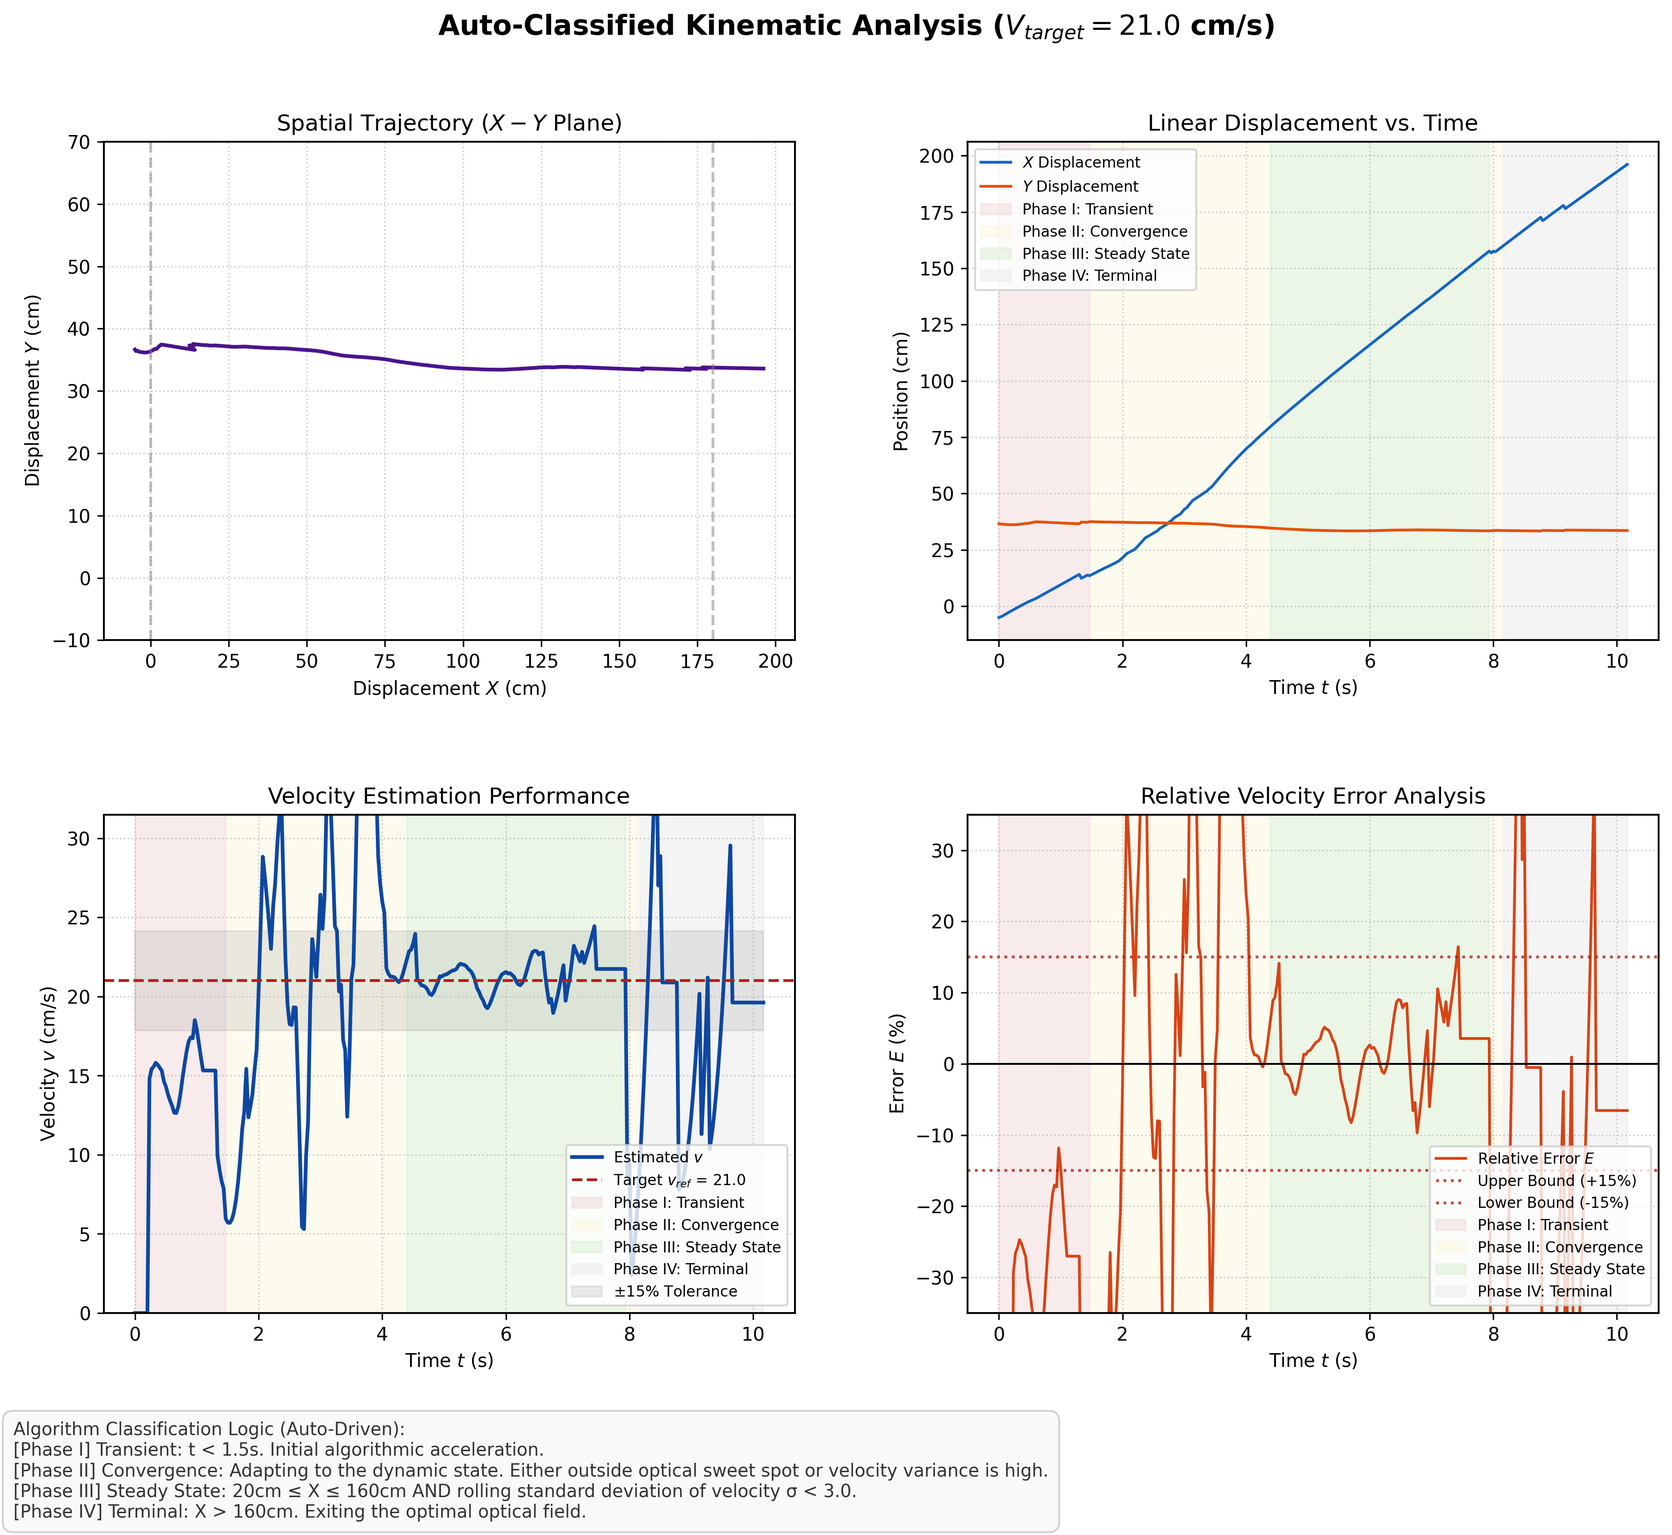
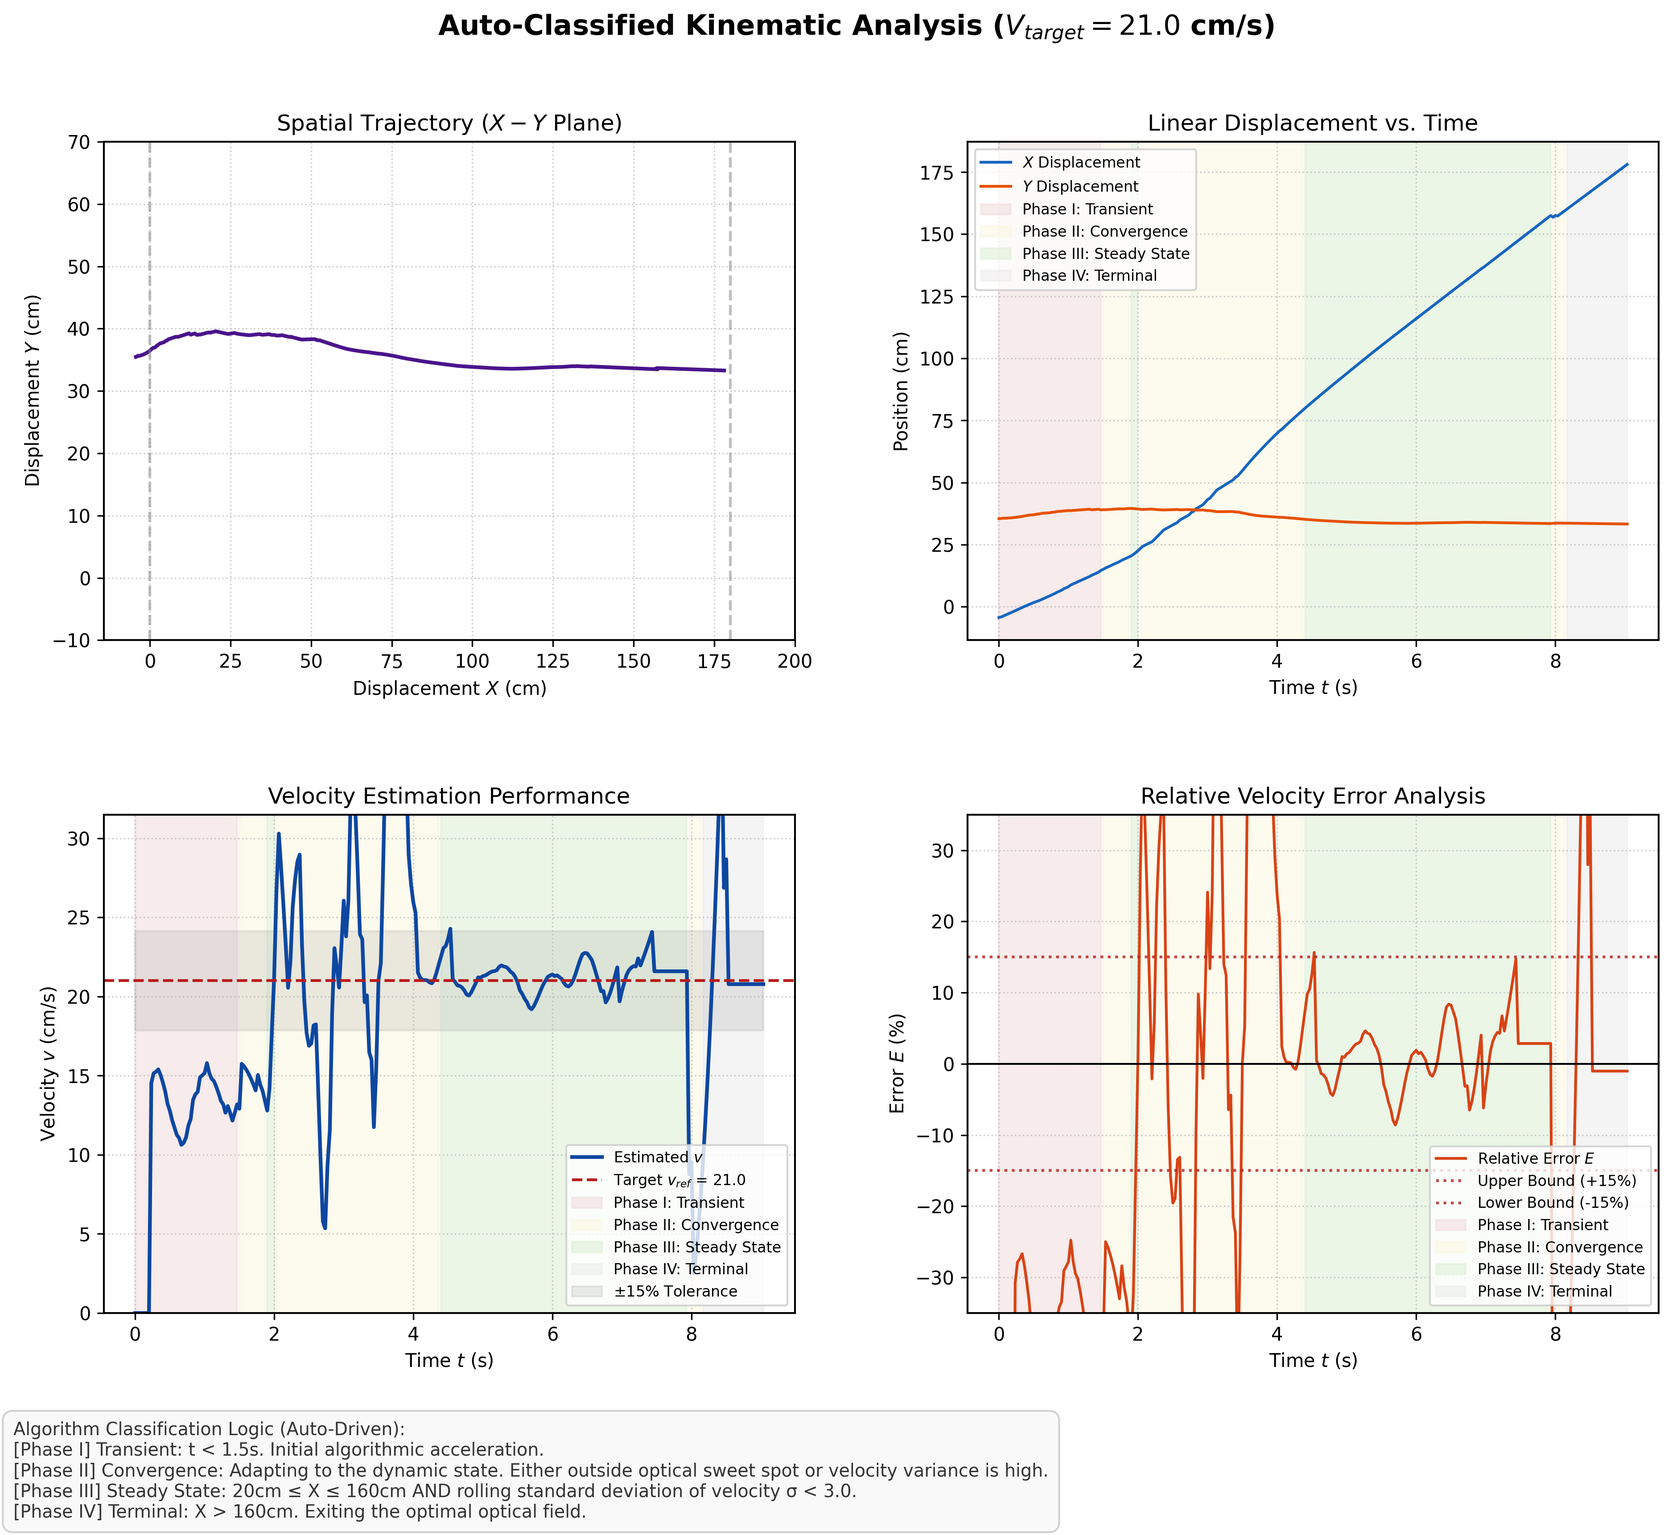
多版本尝试V21-V26 V20enhanced

diff --git a/CV/main.py b/CV/main.py
@@ -3,24 +3,31 @@ import numpy as np
 import torch
 import matplotlib.pyplot as plt
 import os
+from collections import deque
 
 # ==========================================
-# 1. 核心追踪器 (V20 变频卡尔曼 + 初速钳位)
+# 1. 核心状态估计器 (纯净 V20 变频卡尔曼内核)
 # ==========================================
-class TrackerProV20:
+class AcademicTrackerV20_Enhanced:
     def __init__(self, H_matrix, max_lost=30):
         self.H = H_matrix
         self.last_t = None
         self.init_buffer = [] 
         self.vel_inited = False
+        self.lost_count = 0
+        self.max_lost = max_lost
         
+        # EMA 框平滑，抑制边缘呼吸效应
+        self.ema_box = None
+        self.ema_alpha = 0.3  
+        
+        # 纯净卡尔曼滤波器，无 Polyfit 回归
         self.kf = cv2.KalmanFilter(4, 2)
         self.kf.measurementMatrix = np.array([[1, 0, 0, 0], [0, 1, 0, 0]], np.float32)
         self.kf.transitionMatrix = np.eye(4, dtype=np.float32)
         
         self.kf.processNoiseCov = np.eye(4, dtype=np.float32) * 0.001
         self.kf.measurementNoiseCov = np.eye(2, dtype=np.float32) * 6.0 
-        self.kf.errorCovPost = np.eye(4, dtype=np.float32)
 
     def pixel_to_world(self, u, v):
         src = np.array([[[float(u), float(v)]]], dtype=np.float32)
@@ -28,6 +35,7 @@ class TrackerProV20:
         return dst[0][0][0], dst[0][0][1]
 
     def update(self, best_box, timestamp):
+        # 变频卡尔曼：前1.5s极速收敛，后半段死锁平滑
         if self.last_t is not None:
             if timestamp < 1.5:
                 self.kf.measurementNoiseCov = np.eye(2, dtype=np.float32) * 1.0
@@ -37,7 +45,11 @@ class TrackerProV20:
                 self.kf.processNoiseCov = np.eye(4, dtype=np.float32) * 0.001
 
         if best_box is not None:
-            u, v_bot = (best_box[0] + best_box[2]) / 2, best_box[3]
+            if self.ema_box is None: 
+                self.ema_box = best_box
+            else: 
+                self.ema_box = self.ema_alpha * best_box + (1 - self.ema_alpha) * self.ema_box
+            u, v_bot = (self.ema_box[0] + self.ema_box[2]) / 2, self.ema_box[3]
             curr_x, curr_y = self.pixel_to_world(u, v_bot)
         else:
             curr_x, curr_y = None, None
@@ -45,12 +57,12 @@ class TrackerProV20:
         if self.last_t is None:
             if curr_x is None: return None
             self.last_t = timestamp
-            self.init_buffer.append((curr_x, curr_y, timestamp))
-            return curr_x, curr_y, 0.0, 0.0, "INIT"
+            return curr_x, curr_y, 0.0, 0.0
 
         dt = timestamp - self.last_t
         self.last_t = timestamp
         
+        # 初速钳位
         if not self.vel_inited and curr_x is not None:
             self.init_buffer.append((curr_x, curr_y, timestamp))
             if len(self.init_buffer) >= 3:
@@ -61,44 +73,88 @@ class TrackerProV20:
                 v_y = np.clip(v_y, -40.0, 40.0)
                 self.kf.statePost = np.array([[curr_x], [curr_y], [v_x], [v_y]], np.float32)
                 self.vel_inited = True
-            return curr_x, curr_y, 0.0, 0.0, "SYNC"
+            return curr_x, curr_y, 0.0, 0.0
 
         self.kf.transitionMatrix[0, 2] = dt
         self.kf.transitionMatrix[1, 3] = dt
         
         if best_box is not None:
+            self.lost_count = 0
             meas = np.array([[np.float32(curr_x)], [np.float32(curr_y)]])
             self.kf.predict()
             state = self.kf.correct(meas)
-            status = "TRACKING"
         else:
+            self.lost_count += 1
             state = self.kf.predict()
-            status = "PREDICTING"
 
+        if self.lost_count > self.max_lost:
+            self.ema_box = None
+            return None
+
+        # 完全输出卡尔曼原生状态 (V20 特性)
         x, y, vx, vy = state.flatten()
-        return x, y, vx, vy, status
+        return float(x), float(y), float(vx), float(vy)
 
 # ==========================================
-# 2. 学术级数据报表
+# 2. 动态状态分类器 (主动识别)
 # ==========================================
-def generate_academic_report(h_t, h_x, h_y, h_v, target_v, run_name):
+class PhaseClassifier:
+    def __init__(self):
+        self.v_buffer = deque(maxlen=15)
+        
+    def classify(self, t, x, v):
+        self.v_buffer.append(v)
+        
+        if t < 1.5:
+            return "Phase I: Transient"
+        if x > 160.0:
+            return "Phase IV: Terminal"
+            
+        if len(self.v_buffer) == 15:
+            v_std = np.std(self.v_buffer)
+            # 在 20~160cm 腹地，且速度收敛时，判定为稳态
+            if 20.0 <= x <= 160.0 and v_std < 3.0:
+                return "Phase III: Steady State"
+                
+        return "Phase II: Convergence"
+
+# ==========================================
+# 3. 智能渲染学术报表
+# ==========================================
+def generate_auto_academic_report(h_t, h_x, h_y, h_v, h_phases, target_v, run_name):
     if len(h_t) < 20: return
     
     t, x, y, v = np.array(h_t), np.array(h_x), np.array(h_y), np.array(h_v)
     errors_pct = ((v - target_v) / target_v) * 100
 
-    T_REACTION_END = 1.5   
-    T_EVAL_START = 3.0     
-    T_EVAL_END = 11.0
-
     plt.rcParams.update({'font.size': 10, 'axes.linewidth': 1.0})
-    fig, axs = plt.subplots(2, 2, figsize=(14, 10))
-    fig.suptitle(f'Kinematic Performance Analysis ($V_{{target}} = {target_v}$ cm/s)', fontsize=14, fontweight='bold', y=0.95)
-    plt.subplots_adjust(hspace=0.3, wspace=0.25)
+    fig, axs = plt.subplots(2, 2, figsize=(15, 12))
+    fig.suptitle(f'Kinematic Performance Analysis ($V_{{target}} = {target_v}$ cm/s)', fontsize=15, fontweight='bold', y=0.96)
+    plt.subplots_adjust(hspace=0.35, wspace=0.25, bottom=0.15) 
 
-    def draw_eval_zones(ax, t_max):
-        ax.axvspan(0, T_REACTION_END, color='#f2dede', alpha=0.5, label='Transient State (<1.5s)')
-        ax.axvspan(T_EVAL_START, min(t_max, T_EVAL_END), color='#dff0d8', alpha=0.5, label='Steady State (3-11s)')
+    phase_colors = {
+        "Phase I: Transient": "#f2dede",   
+        "Phase II: Convergence": "#fcf8e3",
+        "Phase III: Steady State": "#dff0d8",
+        "Phase IV: Terminal": "#eeeeee"    
+    }
+
+    def draw_dynamic_zones(ax):
+        start_idx = 0
+        current_phase = h_phases[0]
+        for i in range(1, len(h_t)):
+            if h_phases[i] != current_phase or i == len(h_t) - 1:
+                end_idx = i if h_phases[i] != current_phase else i + 1
+                t_start = t[start_idx]
+                t_end = t[end_idx - 1]
+                ax.axvspan(t_start, t_end, color=phase_colors[current_phase], alpha=0.6, label=current_phase)
+                current_phase = h_phases[i]
+                start_idx = i
+
+    def format_legend(ax, loc='best'):
+        handles, labels = ax.get_legend_handles_labels()
+        by_label = dict(zip(labels, handles))
+        ax.legend(by_label.values(), by_label.keys(), loc=loc, fontsize=8)
 
     axs[0,0].plot(x, y, color='#4a148c', lw=2.0)
     axs[0,0].axvline(x=0, color='gray', linestyle='--', alpha=0.5)
@@ -110,46 +166,50 @@ def generate_academic_report(h_t, h_x, h_y, h_v, target_v, run_name):
 
     axs[0,1].plot(t, x, color='#1565c0', label='$X$ Displacement')
     axs[0,1].plot(t, y, color='#e65100', label='$Y$ Displacement')
-    draw_eval_zones(axs[0,1], t[-1])
+    draw_dynamic_zones(axs[0,1])
     axs[0,1].set_title('Linear Displacement vs. Time', fontsize=12)
     axs[0,1].set_xlabel('Time $t$ (s)'); axs[0,1].set_ylabel('Position (cm)')
-    handles, labels = axs[0,1].get_legend_handles_labels()
-    by_label = dict(zip(labels, handles))
-    axs[0,1].legend(by_label.values(), by_label.keys())
+    format_legend(axs[0,1], loc='upper left')
     axs[0,1].grid(True, linestyle=':', alpha=0.6)
 
     axs[1,0].plot(t, v, color='#0d47a1', lw=2.0, label='Estimated $v$')
     axs[1,0].axhline(y=target_v, color='#b71c1c', ls='--', lw=1.5, label=f'Target $v_{{ref}}$ = {target_v}')
-    draw_eval_zones(axs[1,0], t[-1])
+    draw_dynamic_zones(axs[1,0])
     axs[1,0].fill_between(t, target_v*0.85, target_v*1.15, color='gray', alpha=0.15, label='$\pm$15% Tolerance')
     axs[1,0].set_title('Velocity Estimation Performance', fontsize=12)
     axs[1,0].set_xlabel('Time $t$ (s)'); axs[1,0].set_ylabel('Velocity $v$ (cm/s)')
-    axs[1,0].set_ylim(0, target_v * 1.5) 
-    handles, labels = axs[1,0].get_legend_handles_labels()
-    by_label = dict(zip(labels, handles))
-    axs[1,0].legend(by_label.values(), by_label.keys(), loc='lower right')
+    axs[1,0].set_ylim(0, max(45, target_v * 1.5)) 
+    format_legend(axs[1,0], loc='lower right')
     axs[1,0].grid(True, linestyle=':', alpha=0.6)
 
     axs[1,1].plot(t, errors_pct, color='#d84315', lw=1.5, label='Relative Error $E$') 
     axs[1,1].axhline(y=0, color='k', lw=1.0)
     axs[1,1].axhline(y=15, color='#b71c1c', ls=':', alpha=0.8, label='Upper Bound (+15%)')
     axs[1,1].axhline(y=-15, color='#b71c1c', ls=':', alpha=0.8, label='Lower Bound (-15%)')
-    draw_eval_zones(axs[1,1], t[-1])
+    draw_dynamic_zones(axs[1,1])
     axs[1,1].set_title('Relative Velocity Error Analysis', fontsize=12)
     axs[1,1].set_xlabel('Time $t$ (s)'); axs[1,1].set_ylabel('Error $E$ (%)')
     axs[1,1].set_ylim(-35, 35) 
-    handles, labels = axs[1,1].get_legend_handles_labels()
-    by_label = dict(zip(labels, handles))
-    axs[1,1].legend(by_label.values(), by_label.keys(), loc='lower right')
+    format_legend(axs[1,1], loc='lower right')
     axs[1,1].grid(True, linestyle=':', alpha=0.6)
 
-    save_name = f'Report_V20_Kernel_{run_name}_{target_v}cm_s.png'
+    footer_text = (
+        "Phase Classification Logic (Auto-Driven):\n"
+        "[Phase I] Transient: t < 1.5s. Initial algorithmic acceleration.\n"
+        "[Phase II] Convergence: Adapting to the dynamic state. Outside optical sweet spot or velocity variance is high.\n"
+        "[Phase III] Steady State: 20cm \u2264 X \u2264 160cm AND rolling standard deviation of velocity \u03c3 < 3.0.\n"
+        "[Phase IV] Terminal: X > 160cm. Exiting the optimal optical field."
+    )
+    fig.text(0.08, 0.02, footer_text, ha='left', va='bottom', fontsize=9.5, color='#333333', 
+             bbox=dict(boxstyle='round,pad=0.6', facecolor='#f9f9f9', edgecolor='#cccccc', alpha=0.9))
+
+    save_name = f'Report_V20_Enhanced_{run_name}_{target_v}cm_s.png'
     plt.savefig(save_name, dpi=300, bbox_inches='tight')
     print(f"Academic report saved to {save_name}")
     plt.close()
 
 # ==========================================
-# 3. 鼠标标定辅助
+# 4. 视频批处理与渲染管线
 # ==========================================
 pts_clicked = []
 def click_event(event, x, y, flags, params):
@@ -166,9 +226,6 @@ def click_event(event, x, y, flags, params):
                 cv2.line(frame_disp, tuple(pts_clicked[3]), tuple(pts_clicked[0]), (0, 255, 255), 2)
             cv2.imshow(window_name, frame_disp)
 
-# ==========================================
-# 4. 批处理数据管线
-# ==========================================
 def process_dataset(video_path, target_v, run_name, cached_data=None):
     global pts_clicked
     print(f"\n[{run_name}] Processing Video: {video_path} (Target: {target_v} cm/s)")
@@ -181,9 +238,7 @@ def process_dataset(video_path, target_v, run_name, cached_data=None):
     ret, frame_first = cap.read()
     if not ret: return cached_data
 
-    # --- 修复缓存提取逻辑，同时提取 H 矩阵和 pts_px ---
-    H = None
-    pts_px = None
+    H, pts_px = None, None
     if cached_data is not None:
         use_cache = input(f"[{run_name}] Use previous 180cm calibration box? (y/n): ").strip().lower()
         if use_cache == 'y':
@@ -198,7 +253,6 @@ def process_dataset(video_path, target_v, run_name, cached_data=None):
         cv2.imshow(window_name, frame_disp)
         cv2.setMouseCallback(window_name, click_event, {'frame': frame_disp, 'window': window_name})
         
-        print(f"[{run_name}] Waiting for calibration...")
         while True:
             key = cv2.waitKey(1) & 0xFF
             if key == ord(' ') or key == 13: 
@@ -215,19 +269,22 @@ def process_dataset(video_path, target_v, run_name, cached_data=None):
     model = torch.hub.load('ultralytics/yolov5', 'custom', path='best.pt')
     w, h = int(cap.get(3)), int(cap.get(4))
     
-    output_vid_name = f'Tracked_{run_name}_{target_v}cm_s.mp4'
+    output_vid_name = f'Tracked_V20_Enhanced_{run_name}_{target_v}cm_s.mp4'
     out = cv2.VideoWriter(output_vid_name, cv2.VideoWriter_fourcc(*'mp4v'), real_fps, (w, h))
     
-    tracker = TrackerProV20(H)
-    h_t, h_x, h_y, h_v = [], [], [], []
+    tracker = AcademicTrackerV20_Enhanced(H)
+    classifier = PhaseClassifier()
+    H_inv = np.linalg.inv(H)  # 逆单应性矩阵用于矢量投影
+    
+    h_t, h_x, h_y, h_v, h_phases = [], [], [], [], []
     last_px_center = None 
+    traj_pts = deque(maxlen=45) 
 
     try:
         while cap.isOpened():
             ret, frame = cap.read()
             if not ret: break
             
-            # 由于上面确保了 pts_px 被正确缓存或生成，这里不会再报 UnboundLocalError
             overlay = frame.copy()
             cv2.fillPoly(overlay, [np.int32(pts_px)], (255, 100, 0))
             cv2.addWeighted(overlay, 0.15, frame, 0.85, 0, frame)
@@ -253,39 +310,65 @@ def process_dataset(video_path, target_v, run_name, cached_data=None):
             res = tracker.update(best_box, curr_t)
             
             if res is not None:
-                X, Y, Vx, Vy, status = res
+                X, Y, Vx, Vy = res
                 V_abs = np.sqrt(Vx**2 + Vy**2)
+                
                 h_t.append(curr_t); h_x.append(X); h_y.append(Y); h_v.append(V_abs)
+                current_phase = classifier.classify(curr_t, X, V_abs)
+                h_phases.append(current_phase)
                 
                 if best_box is not None:
                     last_px_center = ((best_box[0]+best_box[2])/2, (best_box[1]+best_box[3])/2)
                     x1, y1, x2, y2 = map(int, best_box[:4])
-                    cv2.rectangle(frame, (x1, y1), (x2, y2), (0, 255, 0), 2)
+                    cv2.rectangle(frame, (x1, y1), (x2, y2), (255, 255, 255), 1)
+                    
+                    # 绘制历史轨迹 (Trajectory)
+                    traj_pts.append(last_px_center)
+                    if len(traj_pts) > 2:
+                        pts_arr = np.array(traj_pts, dtype=np.int32)
+                        cv2.polylines(frame, [pts_arr], False, (0, 255, 255), 2)
+                    
+                    # 绘制逆透视速度矢量 (Speed Vector)
+                    if Vx != 0 or Vy != 0:
+                        pred_X, pred_Y = X + Vx * 0.5, Y + Vy * 0.5
+                        curr_src = np.array([[[X, Y]]], dtype=np.float32)
+                        pred_src = np.array([[[pred_X, pred_Y]]], dtype=np.float32)
+                        curr_px = cv2.perspectiveTransform(curr_src, H_inv)[0][0]
+                        pred_px = cv2.perspectiveTransform(pred_src, H_inv)[0][0]
+                        cv2.arrowedLine(frame, (int(curr_px[0]), int(curr_px[1])), 
+                                        (int(pred_px[0]), int(pred_px[1])), (0, 0, 255), 2, tipLength=0.3)
                 
-                cv2.putText(frame, f"TARGET: {target_v:.1f} cm/s", (40, 40), 0, 1.0, (255, 255, 255), 2)
-                cv2.putText(frame, f"VEL: {V_abs:.1f} cm/s", (40, 80), 0, 1.2, (0, 255, 0), 3)
+                # HUD 面板渲染
+                panel_color = (40, 40, 40)
+                cv2.rectangle(frame, (20, 20), (380, 160), panel_color, -1)
+                cv2.rectangle(frame, (20, 20), (380, 160), (200, 200, 200), 1)
                 
-                if curr_t < 1.5:
-                    cv2.putText(frame, "TRANSIENT STATE (<1.5s)", (40, 130), 0, 1.0, (0, 165, 255), 2)
-                elif 3.0 <= curr_t <= 11.0:
-                    cv2.putText(frame, "STEADY STATE (3-11s)", (40, 130), 0, 1.0, (0, 255, 0), 2)
-                else:
-                    cv2.putText(frame, "TRACKING...", (40, 130), 0, 1.0, (255, 255, 255), 2)
+                err_val = ((V_abs - target_v) / target_v) * 100
+                cv2.putText(frame, f"TARGET : {target_v:.1f} cm/s", (35, 55), cv2.FONT_HERSHEY_DUPLEX, 0.7, (255, 255, 255), 1)
+                cv2.putText(frame, f"MEASURE: {V_abs:.1f} cm/s", (35, 90), cv2.FONT_HERSHEY_DUPLEX, 0.7, (0, 255, 0), 1)
+                cv2.putText(frame, f"ERROR  : {err_val:+.1f} %", (35, 125), cv2.FONT_HERSHEY_DUPLEX, 0.7, 
+                            (0, 0, 255) if abs(err_val)>15 else (255, 255, 255), 1)
+                
+                z_colors = {
+                    "Phase I: Transient": (0, 100, 255),
+                    "Phase II: Convergence": (0, 255, 255),
+                    "Phase III: Steady State": (0, 255, 0),
+                    "Phase IV: Terminal": (150, 150, 150)
+                }
+                cv2.putText(frame, f"[{current_phase.split(':')[1].strip()}]", (35, 150), cv2.FONT_HERSHEY_SIMPLEX, 0.6, z_colors.get(current_phase, (255,255,255)), 1)
 
             out.write(frame)
-            cv2.imshow(f"Processing: {run_name}", frame)
+            cv2.imshow(f"Auto-Phase Tracking: {run_name}", frame)
             if cv2.waitKey(1) & 0xFF == ord('q'): break
     finally:
         cap.release(); out.release(); cv2.destroyAllWindows()
 
-    generate_academic_report(h_t, h_x, h_y, h_v, target_v, run_name)
+    generate_auto_academic_report(h_t, h_x, h_y, h_v, h_phases, target_v, run_name)
     print(f"Dataset {run_name} completed.\n")
-    
-    # 返回元组，把 H 和 pts_px 一起传给下一个视频任务
     return (H, pts_px)
 
 # ==========================================
-# 5. 主程序执行序列
+# 5. 批处理入口
 # ==========================================
 if __name__ == "__main__":
     datasets = [
@@ -294,12 +377,11 @@ if __name__ == "__main__":
     ]
     
     print("========================================")
-    print("  Kinematic Evaluation System (V20 Kernel)")
+    print("  Kinematic System V20-Enhanced")
+    print("  (Pure Kalman + Tracking + Vectors + Auto-Phase)")
     print("========================================\n")
 
-    # 现在的共享数据是一个元组：(H_matrix, pts_px_array)
     shared_data = None
-    
     for ds in datasets:
         if not os.path.exists(ds["path"]):
             print(f"Warning: Video {ds['path']} not found. Skipping.")
@@ -307,4 +389,4 @@ if __name__ == "__main__":
             
         shared_data = process_dataset(ds["path"], ds["target"], ds["name"], cached_data=shared_data)
         
-    print("Batch processing finished.") 
+    print("Batch processing finished.")
